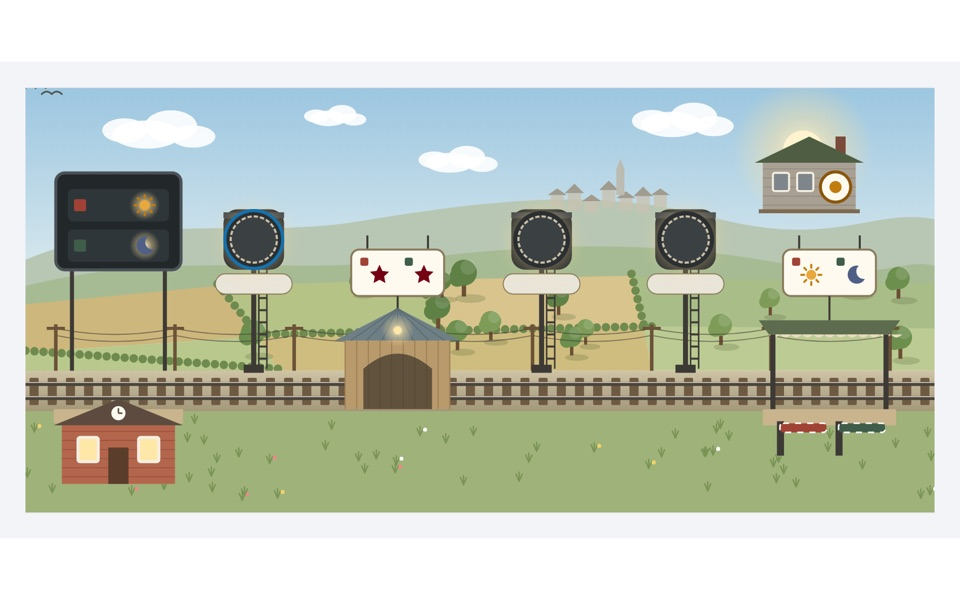
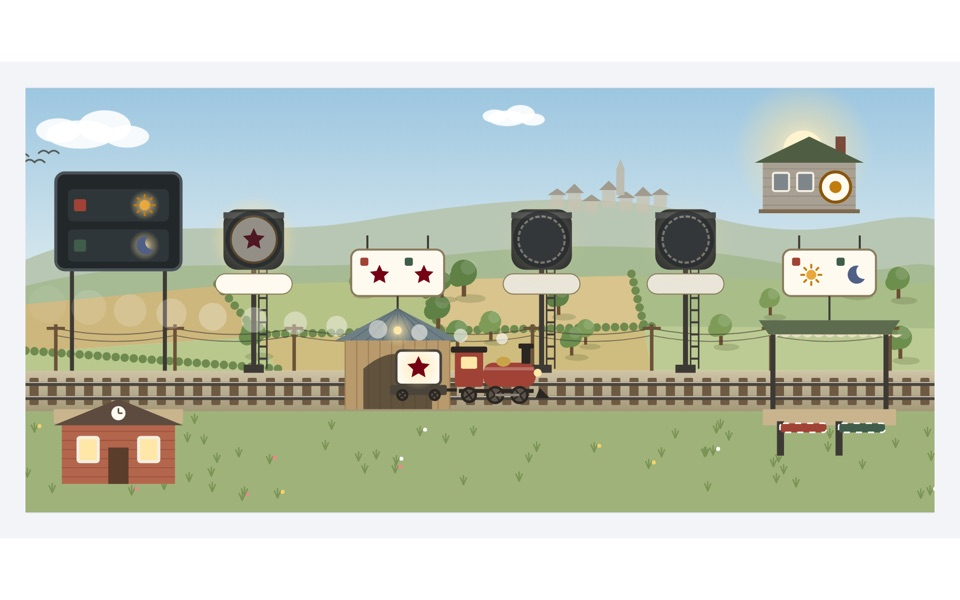
Improve Signal Relay and Merge Rush thumbnails

diff --git a/site/index.html b/site/index.html
@@ -205,7 +205,7 @@ main{max-width:1240px;margin:0 auto;padding:28px 24px 56px}
         </span>
       </a></li>
       <li><a class="game" href="merge-rush.html" style="--course:#111827" aria-labelledby="t-merge-rush" aria-describedby="h-merge-rush">
-        <span class="shot"><img src="thumbs/merge-rush.jpg?v=f1c020bafd" alt="A cluster of tile groups with space for an incoming word." loading="lazy" width="960" height="600"><span class="num" aria-hidden="true">19</span></span>
+        <span class="shot"><img src="thumbs/merge-rush.jpg?v=58f835f350" alt="Two rows of tiles show the same gold pair merging in two places, making space for an incoming purple tile." loading="lazy" width="960" height="600"><span class="num" aria-hidden="true">19</span></span>
         <span class="body">
           <span class="course"><i aria-hidden="true"></i>CV+NLP · Tokenization</span>
           <h2 id="t-merge-rush">Merge Rush</h2>
@@ -214,7 +214,7 @@ main{max-width:1240px;margin:0 auto;padding:28px 24px 56px}
         </span>
       </a></li>
       <li><a class="game" href="signal-relay.html" style="--course:#111827" aria-labelledby="t-signal-relay" aria-describedby="h-signal-relay">
-        <span class="shot"><span class="noshot" aria-hidden="true"></span><span class="num" aria-hidden="true">20</span></span>
+        <span class="shot"><img src="thumbs/signal-relay.jpg?v=160c0dd26f" alt="A locomotive carries a sign past the inspection shed on a model railway with signal lamps and a gated terminus." loading="lazy" width="960" height="600"><span class="num" aria-hidden="true">20</span></span>
         <span class="body">
           <span class="course"><i aria-hidden="true"></i>CV+NLP · Sequence models</span>
           <h2 id="t-signal-relay">Signal Relay</h2>
